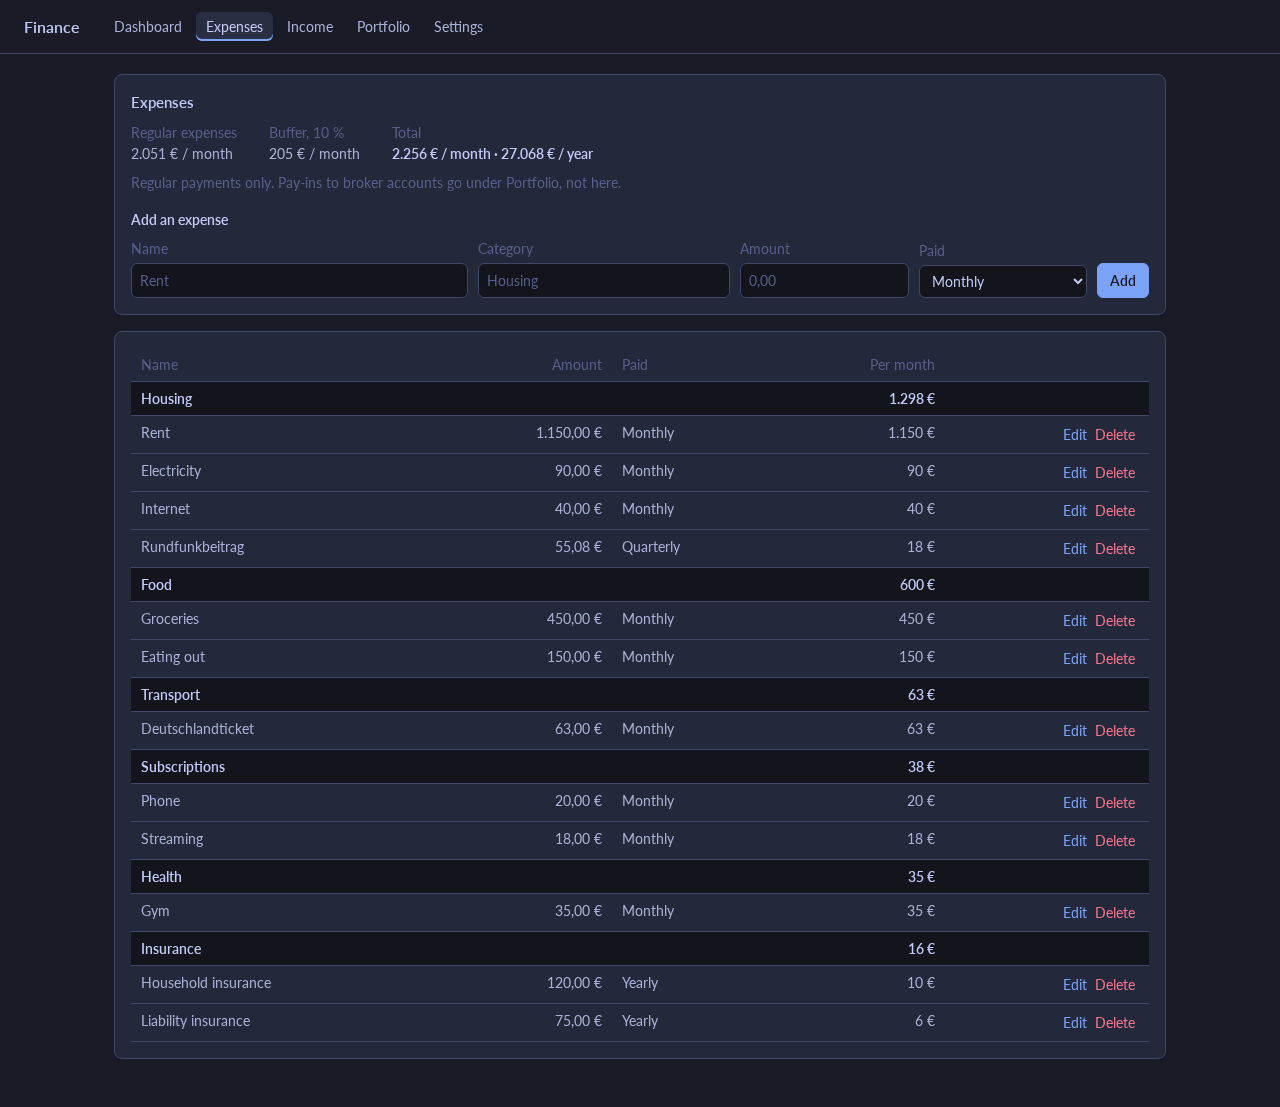
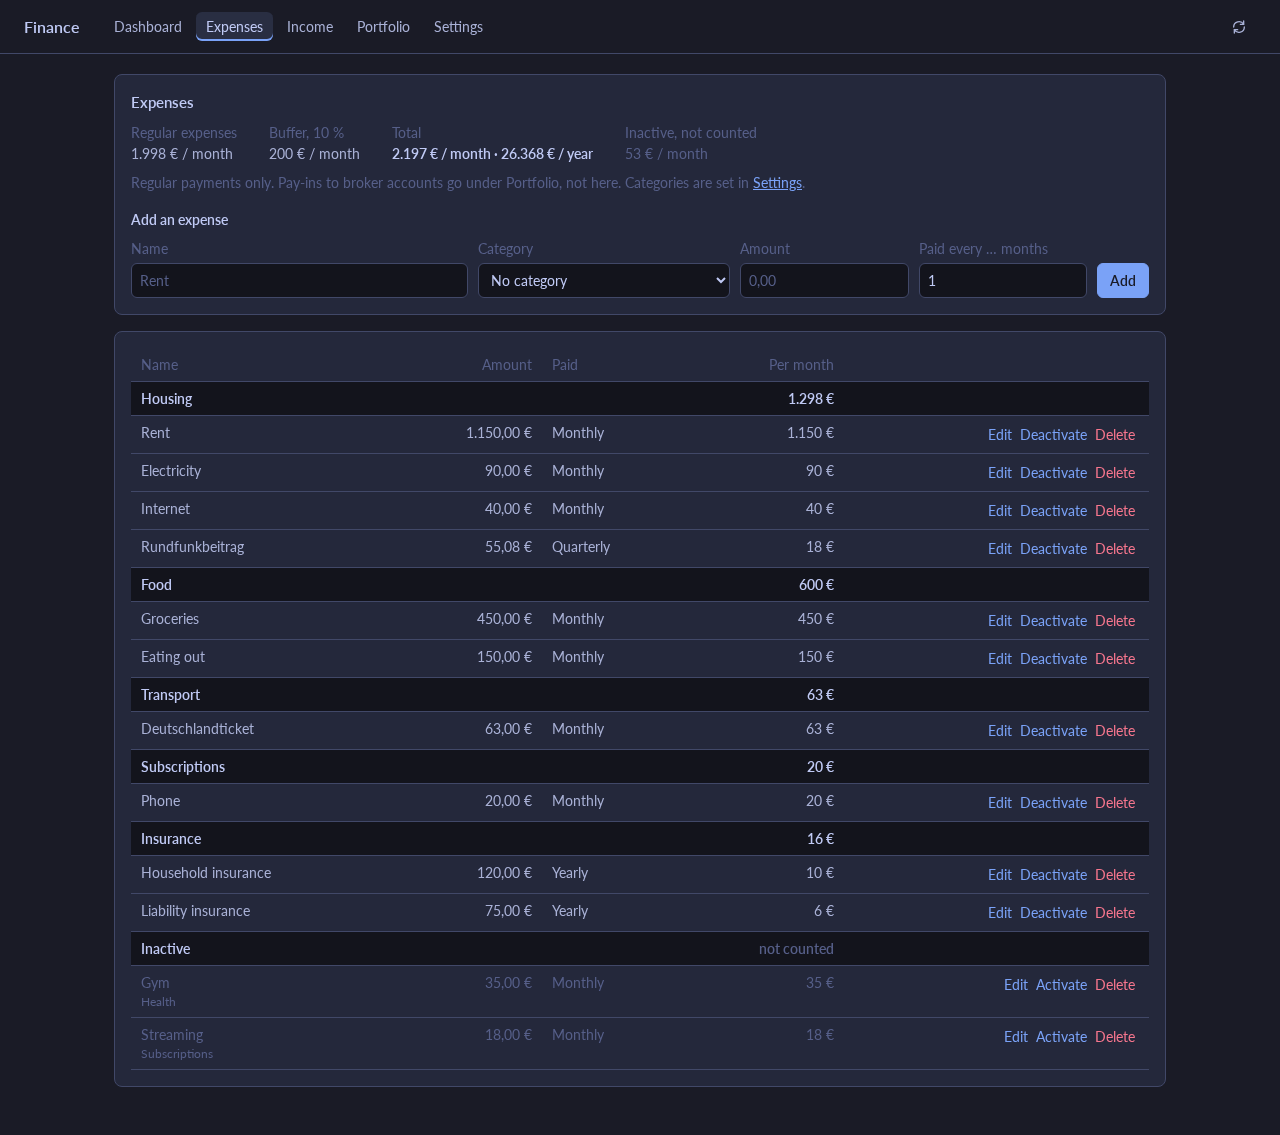
Show inactive expenses in the README screenshot

diff --git a/README.md b/README.md
@@ -93,6 +93,8 @@ The data file stays.
 
 `Ctrl+1` to `Ctrl+5` open Dashboard, Expenses, Income, Portfolio and Settings.
 
+![Expenses, two of them inactive](docs/expenses.png)
+
 ![Portfolio](docs/portfolio.png)
 
 ### Dashboard numbers
